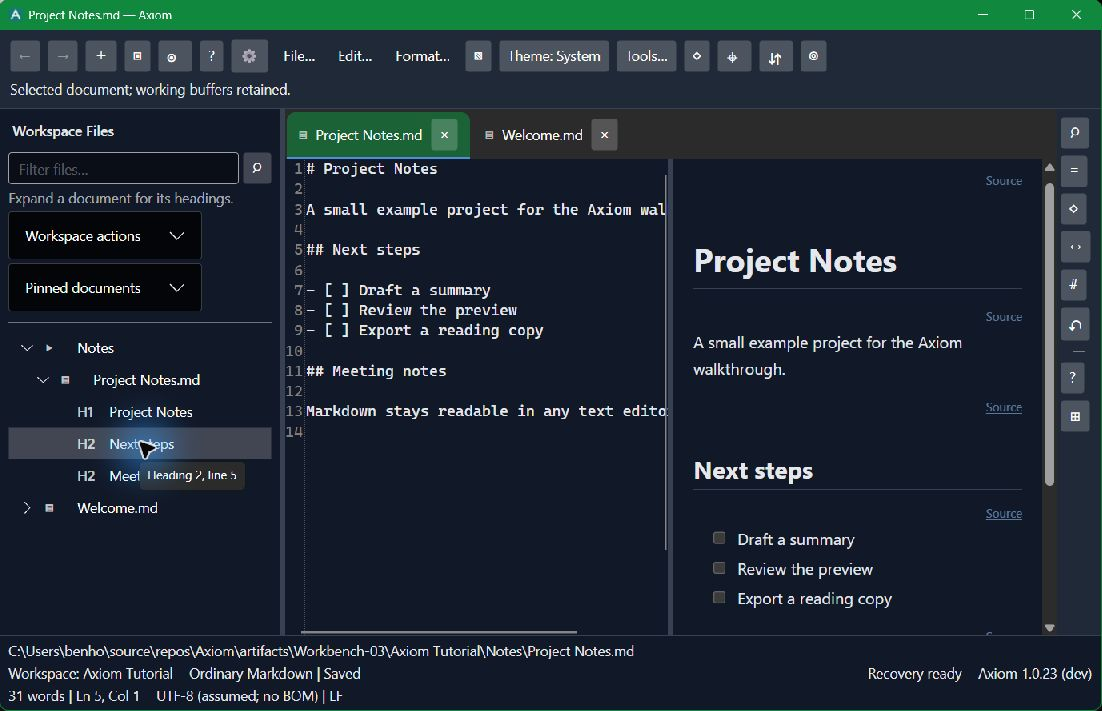
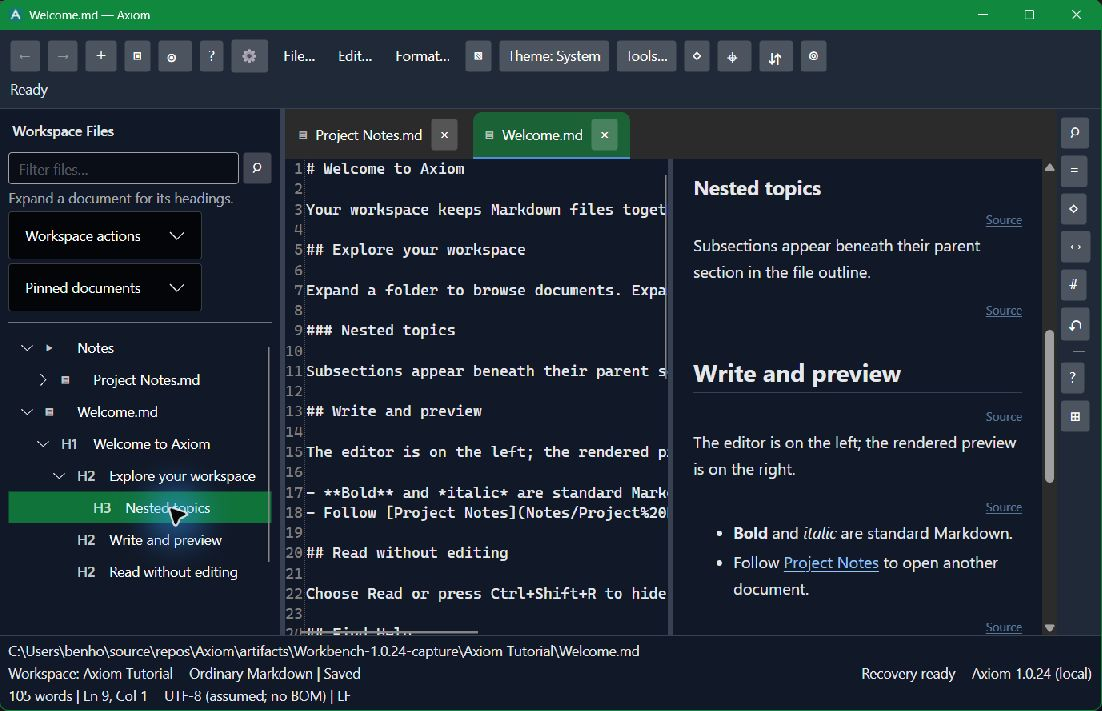
Nest per-file heading outlines and extend advanced Tools walkthrough

diff --git a/src/Axiom.App/Walkthrough/index.html b/src/Axiom.App/Walkthrough/index.html
@@ -1,10 +1,18 @@
 <!doctype html>
-<html lang="en"><head><meta charset="utf-8"><meta name="viewport" content="width=device-width,initial-scale=1"><meta http-equiv="Content-Security-Policy" content="default-src 'none'; img-src 'self'; style-src 'self'; script-src 'self'; base-uri 'none'; form-action 'none'"><title>Axiom — Guided walkthrough</title><link rel="stylesheet" href="walkthrough.css"><script src="walkthrough.js" defer></script></head><body><main><header><h1>Axiom — Guided walkthrough</h1><p>1.0.23 · Windows · Captioned steps</p></header><section class="slide" aria-labelledby="step-0"><h2 id="step-0">1. Open a workspace and edit Markdown</h2><img src="images/01-workspace.jpg" alt="Axiom Windows app showing: Open a workspace and edit Markdown" width="1102" decoding="async"><p class="caption">Choose File → Workspaces and navigation → Open Workspace. Click a Markdown file once to open it. Edit source on the left and check the preview on the right. Ctrl+S saves; an asterisk on a tab means that document has unsaved changes.</p><p class="shortcut">Ctrl+S · Save</p></section>
+<html lang="en"><head><meta charset="utf-8"><meta name="viewport" content="width=device-width,initial-scale=1"><meta http-equiv="Content-Security-Policy" content="default-src 'none'; img-src 'self'; style-src 'self'; script-src 'self'; base-uri 'none'; form-action 'none'"><title>Axiom — Guided walkthrough</title><link rel="stylesheet" href="walkthrough.css"><script src="walkthrough.js" defer></script></head><body><main><header><h1>Axiom — Guided walkthrough</h1><p>1.0.24 · Windows · Basics 1–8 · Advanced Tools 9–16</p></header><section class="slide" aria-labelledby="step-0"><h2 id="step-0">1. Open a workspace and edit Markdown</h2><img src="images/01-workspace.jpg" alt="Axiom Windows app showing: Open a workspace and edit Markdown" width="1102" decoding="async"><p class="caption">Choose File → Workspaces and navigation → Open Workspace. Click a Markdown file once to open it. Edit source on the left and check the preview on the right. Ctrl+S saves; an asterisk on a tab means that document has unsaved changes.</p><p class="shortcut">Ctrl+S · Save</p></section>
 <section class="slide" aria-labelledby="step-1"><h2 id="step-1">2. Filter files or search their contents</h2><img src="images/02-filter.jpg" alt="Axiom Windows app showing: Filter files or search their contents" width="1102" decoding="async"><p class="caption">Type a filename or path fragment in Filter files. Matching documents remain beneath their folders. Press Escape to clear the filter. The magnifier beside it opens Workspace Search for text inside documents.</p><p class="shortcut">Ctrl+Shift+F · Workspace Search</p></section>
-<section class="slide" aria-labelledby="step-2"><h2 id="step-2">3. Navigate a document&#x27;s headings</h2><img src="images/03-outline.jpg" alt="Axiom Windows app showing: Navigate a document&#x27;s headings" width="1102" decoding="async"><p class="caption">Expand a document to load its outline. H1–H6 labels distinguish headings from folders and files. Click a heading to open that document and move to its current location. An open document&#x27;s outline includes unsaved edits.</p><p class="shortcut">Enter · Open the selected file or heading</p></section>
+<section class="slide" aria-labelledby="step-2"><h2 id="step-2">3. Navigate a document&#x27;s headings</h2><img src="images/03-outline.jpg" alt="Axiom Windows app showing: Navigate a document&#x27;s headings" width="1102" decoding="async"><p class="caption">Expand a document to load its hierarchical outline. H2 sections nest beneath H1 titles; H3 subsections nest beneath their H2 section. Use arrows to expand or collapse a branch; collapsed sections stay collapsed while you edit. Click a heading label to navigate the current working text and preview. Skipped levels use the nearest preceding parent, and headings without a parent remain at the file&#x27;s root.</p><p class="shortcut">Enter · Open the selected file or heading</p></section>
 <section class="slide" aria-labelledby="step-3"><h2 id="step-3">4. Read without the editor</h2><img src="images/04-reading.jpg" alt="Axiom Windows app showing: Read without the editor" width="1102" decoding="async"><p class="caption">Use the reading-mode icon or Ctrl+Shift+R to hide the editor and give the preview more room. Your open documents, unsaved text and Undo history remain protected. Use the same shortcut to return to editing.</p><p class="shortcut">Ctrl+Shift+R · Toggle reading mode</p></section>
 <section class="slide" aria-labelledby="step-4"><h2 id="step-4">5. Open and collapse a tool panel</h2><img src="images/05-panels.jpg" alt="Axiom Windows app showing: Open and collapse a tool panel" width="1102" decoding="async"><p class="caption">The right rail opens Metadata, Relationships, Classification, Search, Outline or Backlinks beside your document. Click the same icon again or the panel&#x27;s × to collapse it. Drag the divider to resize. Metadata becomes editable after you explicitly make and save an Axiom document.</p><p class="shortcut">Ctrl+Shift+P · Find panel commands</p></section>
 <section class="slide" aria-labelledby="step-5"><h2 id="step-5">6. Export a reading or editing copy</h2><img src="images/06-export.jpg" alt="Axiom Windows app showing: Export a reading or editing copy" width="1102" decoding="async"><p class="caption">Choose File → Export current buffer, then Word, HTML, plain text, PDF, EPUB or OpenDocument Text. Choose the output location and review any overwrite prompt. Export uses your current buffer, including unsaved edits; it does not silently save or replace the Markdown source.</p><p class="shortcut">Ctrl+Shift+P · Search export commands</p></section>
-<section class="slide" aria-labelledby="step-6"><h2 id="step-6">7. Keep Help beside your work</h2><img src="images/07-help.jpg" alt="Axiom Windows app showing: Keep Help beside your work" width="1102" decoding="async"><p class="caption">Press F1 to open the maintained offline User Guide. Browse topics or search Help text while your document stays open. The 1.0.23 workbench topic explains the current layout. Guided walkthrough opens this slideshow; Close Help returns the space to your document.</p><p class="shortcut">F1 · Contextual Help</p></section>
+<section class="slide" aria-labelledby="step-6"><h2 id="step-6">7. Keep Help beside your work</h2><img src="images/07-help.jpg" alt="Axiom Windows app showing: Keep Help beside your work" width="1102" decoding="async"><p class="caption">Press F1 to open the maintained offline User Guide. Browse topics or search Help text while your document stays open. The workbench topic explains the current layout. Guided walkthrough opens this slideshow; Close Help returns the space to your document.</p><p class="shortcut">F1 · Contextual Help</p></section>
 <section class="slide" aria-labelledby="step-7"><h2 id="step-7">8. Find commands and reset the layout</h2><img src="images/08-commands.jpg" alt="Axiom Windows app showing: Find commands and reset the layout" width="1102" decoding="async"><p class="caption">Press Ctrl+Shift+P and type an action, such as panel, save or export. The palette shows available actions and why others are unavailable. Search Reset workbench layout to restore panel widths and collapse tool windows without changing working documents. Escape cancels the palette.</p><p class="shortcut">Ctrl+Shift+P · Command Palette</p></section>
-<nav id="navigation" class="navigation" aria-label="Walkthrough steps" hidden><button id="previous" type="button">← Previous</button><span id="counter" class="counter" aria-live="off"></span><label for="jump" class="visually-hidden">Choose a walkthrough step</label><select id="jump"><option value="0">1. Open a workspace and edit Markdown</option><option value="1">2. Filter files or search their contents</option><option value="2">3. Navigate a document&#x27;s headings</option><option value="3">4. Read without the editor</option><option value="4">5. Open and collapse a tool panel</option><option value="5">6. Export a reading or editing copy</option><option value="6">7. Keep Help beside your work</option><option value="7">8. Find commands and reset the layout</option></select><button id="next" type="button">Next →</button></nav><p><a id="image-link" href="images/01-workspace.jpg" target="_blank" rel="noopener" hidden>Open current screenshot full size</a></p><p id="announcement" class="visually-hidden" aria-live="polite" aria-atomic="true"></p><footer>Use Previous/Next, ←/→, or Home/End. Nothing plays automatically. Screenshots show actual Windows app workflows with example documents. Find additional workflows in Axiom's offline Help (F1). With JavaScript disabled, all steps remain readable in order.</footer></main></body></html>
+<section class="slide" aria-labelledby="step-8"><h2 id="step-8">9. Advanced Tools overview</h2><img src="images/09-tools.jpg" alt="Axiom Windows app showing: Advanced Tools overview" width="1102" decoding="async"><p class="caption">Open Tools to find diagnostics, state backups, installation, trusted updates, version switching and About. These are optional maintenance workflows. The following steps explain each action; use the step selector to jump directly to a topic. Keep your Markdown workspace separate from the application package and its state backups.</p><p class="shortcut">Tools → Choose an advanced topic</p></section>
+<section class="slide" aria-labelledby="step-9"><h2 id="step-9">10. Inspect Diagnostics</h2><img src="images/10-diagnostics.jpg" alt="Axiom Windows app showing: Inspect Diagnostics" width="1102" decoding="async"><p class="caption">Choose Tools → Diagnostics. Read the bounded log tail and state/log locations; Refresh reloads it. Copy puts the displayed information on your clipboard. Review paths and exception details before sharing. Close returns to your document; this viewer does not repair files or reset your state.</p><p class="shortcut">Tools → Diagnostics</p></section>
+<section class="slide" aria-labelledby="step-10"><h2 id="step-10">11. Inspect state and export a verified backup</h2><img src="images/11-maintenance.jpg" alt="Axiom Windows app showing: Inspect state and export a verified backup" width="1102" decoding="async"><p class="caption">Choose Tools → State Maintenance. Check Integrity, schema, protected drafts and pending operations. To back up state, choose Export verified backup, select a new .db file and wait for the verified-backup result. Existing destinations are refused. This is a state backup, not a copy of your Markdown workspace: back up document files separately. Cancel the picker to leave files unchanged. Live reset/restore is unavailable; close all Axiom processes before following the documented recovery procedure.</p><p class="shortcut">Tools → State Maintenance → Export verified backup</p></section>
+<section class="slide" aria-labelledby="step-11"><h2 id="step-11">12. Install a newer portable package</h2><img src="images/12-portable-update.jpg" alt="Axiom Windows app showing: Install a newer portable package" width="1102" decoding="async"><p class="caption">Extract the complete published package first. Choose Tools → Install Portable Update → Choose package, then select payload-manifest.json beside Axiom.App.exe, not inside your Markdown workspace. Review the verified build and state-schema compatibility before confirming installation into a new Versions folder; a verified state backup is created. Version ready offers Restart or Later. Restart protects unsaved documents with Save/Discard/Cancel; Later keeps this app running. Cancel any review to stop. Keep the full retained package for version switching.</p><p class="shortcut">Tools → Install Portable Update</p></section>
+<section class="slide" aria-labelledby="step-12"><h2 id="step-12">13. Install for the current Windows user</h2><img src="images/13-user-install.jpg" alt="Axiom Windows app showing: Install for the current Windows user" width="1102" decoding="async"><p class="caption">Run from a verified published package, then choose Tools → Install for Current User. Review the build and installation location before Continue. A verified state backup comes first; Start menu shortcut and Markdown Open with registration are separate explicit choices. Your default editor and documents remain unchanged. Installation does not restart the app. Windows Installed apps can uninstall this payload/integration after closing it, while retaining state, backups and other versions. Cancel the initial review to leave the installation unchanged.</p><p class="shortcut">Tools → Install for Current User</p></section>
+<section class="slide" aria-labelledby="step-13"><h2 id="step-13">14. Check an independently trusted update offer</h2><img src="images/14-trusted-update.jpg" alt="Axiom Windows app showing: Check an independently trusted update offer" width="1102" decoding="async"><p class="caption">Choose Tools → Check Trusted Update only when you have an HTTPS offer URL and its JSON SHA-256 from an independently trusted publisher channel. Enter the URL, continue to the hash entry, and review version, channel, schema and release notes before choosing Download. The check is explicit; no feed or background checks are configured. A verified download is not installed automatically: use Install Portable Update and its payload-manifest.json when ready. Cancel without a URL makes no request. A hash from the same untrusted download source does not establish publisher trust.</p><p class="shortcut">Tools → Check Trusted Update</p></section>
+<section class="slide" aria-labelledby="step-14"><h2 id="step-14">15. Switch to a retained compatible version</h2><img src="images/15-switch-version.jpg" alt="Axiom Windows app showing: Switch to a retained compatible version" width="1102" decoding="async"><p class="caption">Choose Tools → Switch Portable Version → Choose package and select a retained application package’s payload-manifest.json. Review its identity and current-state compatibility; an older app must support the current schema. Confirm only the version you intend to run, then choose Restart or Later. Restart uses the same state root and unsaved-document protection; Later leaves the current app running. Cancel stops the switch. Do not replace running binaries manually or downgrade the database to force compatibility.</p><p class="shortcut">Tools → Switch Portable Version</p></section>
+<section class="slide" aria-labelledby="step-15"><h2 id="step-15">16. Identify the running app with About</h2><img src="images/16-about.jpg" alt="Axiom Windows app showing: Identify the running app with About" width="1102" decoding="async"><p class="caption">Choose Tools → About Axiom. Check product/build version, source commit, branch, platform, state path, supported schema, channel and retained-version location before reporting a problem or reviewing a candidate. This screenshot is an isolated 1.0.24+local example; the final candidate has its own commit identity. Refresh reloads the information; Copy copies it for your review and Close returns to work. Package hashes describe integrity and do not prove publisher authentication or human acceptance.</p><p class="shortcut">Tools → About Axiom</p></section>
+<nav id="navigation" class="navigation" aria-label="Walkthrough steps" hidden><button id="previous" type="button">← Previous</button><span id="counter" class="counter" aria-live="off"></span><label for="jump" class="visually-hidden">Choose a walkthrough step</label><select id="jump"><option value="0">1. Open a workspace and edit Markdown</option><option value="1">2. Filter files or search their contents</option><option value="2">3. Navigate a document&#x27;s headings</option><option value="3">4. Read without the editor</option><option value="4">5. Open and collapse a tool panel</option><option value="5">6. Export a reading or editing copy</option><option value="6">7. Keep Help beside your work</option><option value="7">8. Find commands and reset the layout</option><option value="8">9. Advanced Tools overview</option><option value="9">10. Inspect Diagnostics</option><option value="10">11. Inspect state and export a verified backup</option><option value="11">12. Install a newer portable package</option><option value="12">13. Install for the current Windows user</option><option value="13">14. Check an independently trusted update offer</option><option value="14">15. Switch to a retained compatible version</option><option value="15">16. Identify the running app with About</option></select><button id="next" type="button">Next →</button></nav><p><a id="image-link" href="images/01-workspace.jpg" target="_blank" rel="noopener" hidden>Open current screenshot full size</a></p><p id="announcement" class="visually-hidden" aria-live="polite" aria-atomic="true"></p><footer>Use Previous/Next, ←/→, or Home/End. Nothing plays automatically. Screenshots show actual Windows app workflows with example documents. Find additional workflows in Axiom's offline Help (F1). With JavaScript disabled, all steps remain readable in order.</footer></main></body></html>

diff --git a/tests/Axiom.App.Tests/MainWindowTests.Workbench.cs b/tests/Axiom.App.Tests/MainWindowTests.Workbench.cs
@@ -9,6 +9,39 @@ namespace Axiom.App.Tests;
 public sealed partial class MainWindowTests
 {
     [AvaloniaFact]
+    public async Task FileOutlineNestsSkippedLevelsAndRetainsCollapseWhileNavigatingWorkingText()
+    {
+        var root = CreateTabWorkspace();
+        try
+        {
+            var path = Path.Combine(root, "hierarchy.md");
+            var source = "### Before title\n# TestTitle\n## TestSub1\n### TestSub2\n##### Skipped level\n## Sibling\n# Other title\n```md\n## Not a heading\n```\n";
+            await File.WriteAllTextAsync(path, source);
+            var window = CreateWindow(root);
+            await window.LoadFolderAsync(root);
+            var file = Assert.Single(window.ExplorerNodesForTesting, node => node.IsDocument);
+            await window.LoadExplorerOutlineAsync(file);
+            Assert.Equal(new[] { "Before title", "TestTitle", "Other title" }, file.Children.Select(node => node.Name));
+            var title = file.Children[1];
+            Assert.Equal(new[] { "TestSub1", "Sibling" }, title.Children.Select(node => node.Name));
+            var sub = title.Children[0];
+            Assert.Equal("TestSub2", Assert.Single(sub.Children).Name);
+            Assert.Equal(5, Assert.Single(sub.Children[0].Children).Heading!.Level);
+            sub.IsExpanded = false;
+            await window.OpenDocumentAsync(path);
+            window.SetEditorTextForTesting("Intro added.\n\n" + source);
+            await window.LoadExplorerOutlineAsync(file);
+            var rebuiltSub = file.Children[1].Children[0];
+            Assert.False(rebuiltSub.IsExpanded);
+            await window.OpenExplorerNodeForTestingAsync(rebuiltSub.Children[0]);
+            Assert.Equal(window.EditorTextForTesting.IndexOf("### TestSub2", StringComparison.Ordinal), window.EditorCaretOffsetForTesting);
+            Assert.Equal(source, await File.ReadAllTextAsync(path));
+            await CloseWorkbenchTestAsync(window);
+        }
+        finally { Directory.Delete(root, true); }
+    }
+
+    [AvaloniaFact]
     public async Task WorkbenchFilteringRetainsFoldersAndLazyOutlinesUseWorkingBuffers()
     {
         var root = CreateTabWorkspace();
@@ -24,14 +57,15 @@ public sealed partial class MainWindowTests
             var file = Assert.Single(folder.Children);
             Assert.True(Assert.Single(file.Children).IsPlaceholder);
             await window.LoadExplorerOutlineAsync(file);
-            Assert.Equal(new[] { "Saved", "Topic" }, file.Children.Select(node => node.Name));
+            Assert.Equal("Saved", Assert.Single(file.Children).Name);
+            Assert.Equal("Topic", Assert.Single(file.Children[0].Children).Name);
             Assert.NotEqual(folder.Icon, file.Icon);
             Assert.NotEqual(file.Icon, file.Children[0].Icon);
             await window.OpenDocumentAsync(path);
             window.SetEditorTextForTesting("# Unsaved\n\n## Live heading\n");
             await window.LoadExplorerOutlineAsync(file);
-            Assert.Equal("Live heading", file.Children[1].Name);
-            await window.OpenExplorerNodeForTestingAsync(file.Children[1]);
+            Assert.Equal("Live heading", file.Children[0].Children[0].Name);
+            await window.OpenExplorerNodeForTestingAsync(file.Children[0].Children[0]);
             Assert.Equal(window.EditorTextForTesting.IndexOf("## Live", StringComparison.Ordinal), window.EditorCaretOffsetForTesting);
             window.FilterExplorerForTesting("ALPHA");
             Assert.Equal("notes", Assert.Single(window.ExplorerNodesForTesting).Name);
@@ -62,7 +96,7 @@ public sealed partial class MainWindowTests
             await window.LoadFolderAsync(root);
             var file = window.ExplorerNodesForTesting.Single(node => node.IsDocument);
             await window.LoadExplorerOutlineAsync(file);
-            var oldHeading = file.Children[1];
+            var oldHeading = file.Children[0].Children[0];
             await window.OpenDocumentAsync(path);
             window.SetEditorTextForTesting("# First\n\nNew paragraph\n\n## Destination\n");
             await window.OpenExplorerNodeForTestingAsync(oldHeading);

diff --git a/src/Axiom.App/WorkbenchProbe.cs b/src/Axiom.App/WorkbenchProbe.cs
@@ -37,12 +37,17 @@ internal static class WorkbenchProbe
             var project = Path.Combine(notes, "Project Notes.md");
             var source = "# Welcome to Axiom\n\nYour workspace keeps Markdown files together. Open a file to read or edit it.\n\n## Explore your workspace\n\nExpand a folder to browse documents. Expand a document to browse its headings.\n\n## Write and preview\n\nThe editor is on the left; the rendered preview is on the right.\n\n- **Bold** and *italic* are standard Markdown.\n- Follow [Project Notes](Notes/Project%20Notes.md) to open another document.\n\n## Read without editing\n\nChoose Read or press Ctrl+Shift+R to hide the editor.\n\n## Find Help\n\nPress F1 to keep the offline User Guide beside your work.\n";
             await File.WriteAllTextAsync(welcome, source);
+            source = source.Replace("## Write and preview", "### Nested topics\n\nSubsections appear beneath their parent section in the file outline.\n\n## Write and preview", StringComparison.Ordinal);
+            await File.WriteAllTextAsync(welcome, source);
             await File.WriteAllTextAsync(project, "# Project Notes\n\nA small example project for the Axiom walkthrough.\n\n## Next steps\n\n- [ ] Draft a summary\n- [ ] Review the preview\n- [ ] Export a reading copy\n\n## Meeting notes\n\nMarkdown stays readable in any text editor.\n");
             await window.SwitchWorkspaceAsync(workspace);
             await window.OpenDocumentAsync(project);
             await window.OpenDocumentAsync(welcome);
             var file = window.ExplorerNodesForTesting.Single(node => node.IsDocument);
             await window.LoadExplorerOutlineAsync(file);
+            Require(file.Children.Count == 1 && file.Children[0].Heading?.Level == 1
+                && file.Children[0].Children[0].Heading?.Level == 2
+                && file.Children[0].Children[0].Children[0].Heading?.Level == 3, "File outline hierarchy was not built.");
             file.IsExpanded = true;
             var folder = window.ExplorerNodesForTesting.Single(node => node.Name == "Notes");
             folder.IsExpanded = true;
@@ -86,6 +91,7 @@ internal static class WorkbenchProbe
             {
                 Version = window.BuildIdentityForTesting.DisplayText
               , NativeEmbeddedViews = true
+              , HierarchicalHeadingLevels = true
               , FilterRetainedHierarchy = true
               , WorkingSourceCaretAndRecoveryPreserved = true
               , LayoutPersisted = true

diff --git a/scripts/Build-WorkbenchWalkthrough.py b/scripts/Build-WorkbenchWalkthrough.py
@@ -1,9 +1,11 @@
 """Build the offline captioned walkthrough from maintained steps and real screenshots."""
 import html
 import json
+import xml.etree.ElementTree as ET
 from pathlib import Path
 
 root = Path(__file__).resolve().parents[1] / "src/Axiom.App/Walkthrough"
+version = ET.parse(root.parents[2] / "Directory.Build.props").findtext(".//AxiomVersion")
 steps = json.loads((root / "steps.json").read_text(encoding="utf-8"))
 if not steps or len(steps) > 50:
     raise ValueError("Choose 1–50 walkthrough steps")
@@ -19,5 +21,6 @@ for index, step in enumerate(steps):
 document = '''<!doctype html>
 <html lang="en"><head><meta charset="utf-8"><meta name="viewport" content="width=device-width,initial-scale=1"><meta http-equiv="Content-Security-Policy" content="default-src 'none'; img-src 'self'; style-src 'self'; script-src 'self'; base-uri 'none'; form-action 'none'"><title>Axiom — Guided walkthrough</title><link rel="stylesheet" href="walkthrough.css"><script src="walkthrough.js" defer></script></head><body><main><header><h1>Axiom — Guided walkthrough</h1><p>1.0.23 · Windows · Captioned steps</p></header>''' + "\n".join(sections) + '''
 <nav id="navigation" class="navigation" aria-label="Walkthrough steps" hidden><button id="previous" type="button">← Previous</button><span id="counter" class="counter" aria-live="off"></span><label for="jump" class="visually-hidden">Choose a walkthrough step</label><select id="jump">''' + "".join(options) + '''</select><button id="next" type="button">Next →</button></nav><p><a id="image-link" href="images/01-workspace.jpg" target="_blank" rel="noopener" hidden>Open current screenshot full size</a></p><p id="announcement" class="visually-hidden" aria-live="polite" aria-atomic="true"></p><footer>Use Previous/Next, ←/→, or Home/End. Nothing plays automatically. Screenshots show actual Windows app workflows with example documents. Find additional workflows in Axiom's offline Help (F1). With JavaScript disabled, all steps remain readable in order.</footer></main></body></html>'''
+document = document.replace("1.0.23 · Windows · Captioned steps", html.escape(version or "") + " · Windows · Basics 1–8 · Advanced Tools 9–16")
 (root / "index.html").write_text(document, encoding="utf-8")
 print(f"Built {len(steps)} captioned steps with local screenshots")

diff --git a/src/Axiom.App/MainWindow.Workbench.cs b/src/Axiom.App/MainWindow.Workbench.cs
@@ -204,8 +204,33 @@ public partial class MainWindow
     private static void SetExplorerHeadings(WorkspaceExplorerNode node, IEnumerable<DocumentOutlineEntry> entries, string source)
     {
         var fingerprint = Convert.ToHexString(System.Security.Cryptography.SHA256.HashData(System.Text.Encoding.UTF8.GetBytes(source)));
+        var expansion = new Dictionary<(int Level, string Text, int Occurrence), bool>();
+        var occurrences = new Dictionary<(int Level, string Text), int>();
+        foreach (var existing in EnumerateExplorer(node.Children).Where(child => child.Heading is not null))
+        {
+            var identity = (existing.Heading!.Level, existing.Name);
+            occurrences.TryGetValue(identity, out var occurrence);
+            expansion[(identity.Level, identity.Name, occurrence)] = existing.IsExpanded;
+            occurrences[identity] = occurrence + 1;
+        }
         node.Children.Clear();
-        foreach (var entry in entries) node.Children.Add(new(entry.Text, node.RelativePath, heading: entry) { SourceFingerprint = fingerprint });
+        occurrences.Clear();
+        var parents = new Stack<WorkspaceExplorerNode>();
+        foreach (var entry in entries)
+        {
+            var identity = (entry.Level, entry.Text);
+            occurrences.TryGetValue(identity, out var occurrence);
+            occurrences[identity] = occurrence + 1;
+            var heading = new WorkspaceExplorerNode(entry.Text, node.RelativePath, heading: entry)
+            {
+                SourceFingerprint = fingerprint
+              , IsExpanded = !expansion.TryGetValue((entry.Level, entry.Text, occurrence), out var expanded) || expanded
+            };
+            while (parents.Count > 0 && parents.Peek().Heading!.Level >= entry.Level) parents.Pop();
+            if (parents.Count == 0) node.Children.Add(heading);
+            else parents.Peek().Children.Add(heading);
+            parents.Push(heading);
+        }
     }
 
     internal async Task LoadExplorerOutlineAsync(WorkspaceExplorerNode node)

diff --git a/src/Axiom.App/Help/UserGuide.md b/src/Axiom.App/Help/UserGuide.md
@@ -1,6 +1,12 @@
-<!-- Generated from the maintained Axiom v1 User Guide. Source SHA-256: 97362F073EFCDC89B7D8241ADF26E19E01D2BBCFCE5628F2B43B667D833D83F2. Edit the maintained guide and run scripts/Sync-OfflineHelp.ps1. -->
+<!-- Generated from the maintained Axiom v1 User Guide. Source SHA-256: 1769DB5316B0051FAFACDB6BA50450D3AFE307EAF849F2DACF62AFE6C81809A1. Edit the maintained guide and run scripts/Sync-OfflineHelp.ps1. -->
 
 # Axiom v1 User Guide
+
+## 1.0.24 hierarchical outlines and advanced walkthrough
+
+Per-file outlines now follow heading structure: H2 sections nest below their H1, and H3 subsections nest below their H2. Headings without an earlier parent remain roots; skipped levels nest below the nearest earlier heading of a lower level. Expand/collapse heading branches with their arrows. New outlines start expanded; collapsed branches remain collapsed when the working buffer refreshes. Clicking the heading label still navigates to its current source and preview location without saving.
+
+The packaged Guided walkthrough now includes an advanced Tools chapter covering all seven actions: Diagnostics, State Maintenance and verified backups, portable updates, per-user installation, trusted update offers, portable version switching and About. Use the step selector to jump directly to a Tools topic. Captions explain prerequisites, explicit choices and cancellation; screenshots show real review screens in isolated example state. Help remains the maintained reference for recovery/update details. Following a tutorial does not automatically install, download or change your documents.
 
 ## 1.0.23 workbench and guided walkthrough
 
